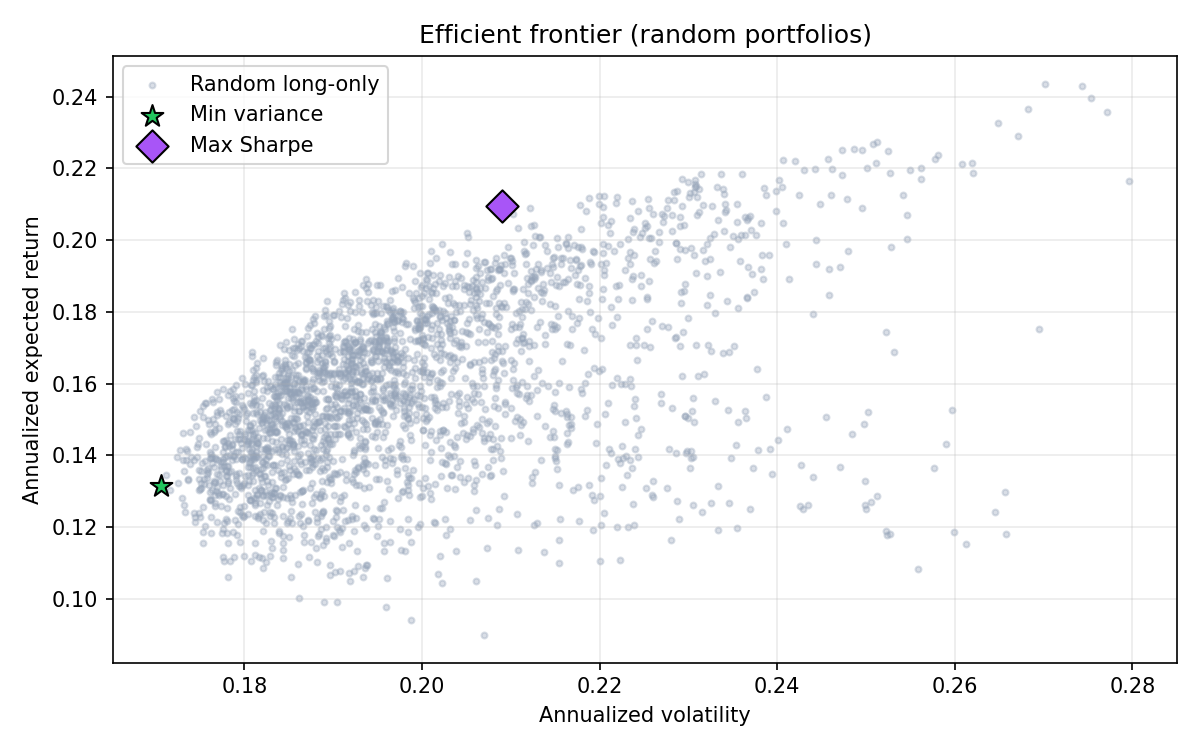
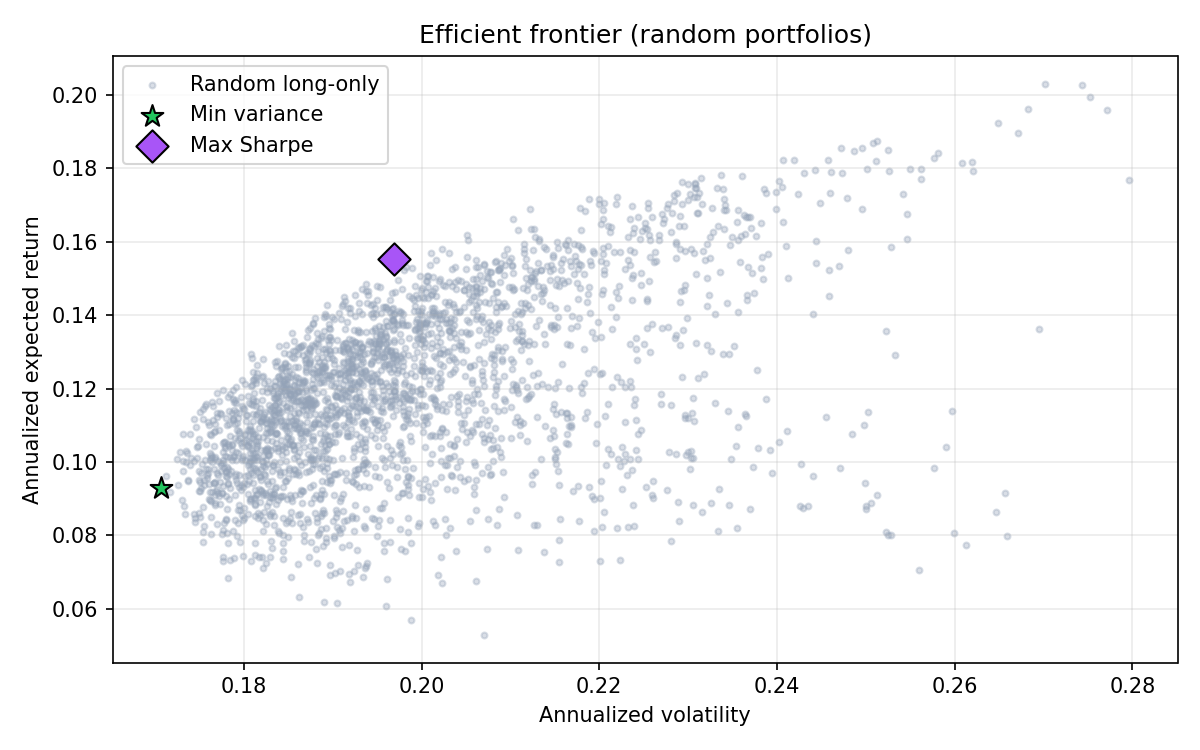
Fixed Outputs

diff --git a/engine/services/report.py b/engine/services/report.py
@@ -16,7 +16,6 @@ from models.schemas import FullPortfolioReport
 from services.frontier import random_portfolio_cloud, summarize_cloud
 from services.market_data import fetch_aligned_prices, fetch_market_returns, normalize_indian_tickers
 from services.optimizer import (
-    efficient_portfolio_for_target_vol,
     max_sharpe_weights,
     min_variance_weights,
     portfolio_mu_sigma_from_daily,
@@ -36,16 +35,7 @@ def _weights_dict(symbols: list[str], w: np.ndarray) -> dict[str, float]:
 def _equal_weights(n: int) -> np.ndarray:
     return np.ones(n, dtype=float) / n
 
-def target_vol_from_risk(risk_score, sig_mv, sig_ms):
-    return sig_mv + risk_score * (sig_ms - sig_mv)
-
-def get_portfolio_for_risk(cloud, risk_score, sig_mv, sig_ms):
-    target_vol = target_vol_from_risk(risk_score, sig_mv, sig_ms)
-
-    idx = np.argmin(np.abs(cloud.volatilities - target_vol))
-
-    return cloud.weights[idx]
-
+from services.frontier import random_portfolio_cloud, summarize_cloud, get_target_risk_portfolio
 
 def build_full_report(
     tickers: list[str],
@@ -115,24 +105,31 @@ def build_full_report(
 
     # ======================================================
 
-    print("\n--- DEBUG: Expected Returns ---")
-    print("Historical (first 5):", mu_hist[:5])
-    print("CAPM (first 5):      ", mu_capm[:5])
-    print("Blended (first 5):   ", mu_d[:5])
-    print("Symbols:", used_syms[:5])
+
 
     n = len(used_syms)
+
+    user_weights_raw = None
+    user_weights_normalized = None
 
     if target_weights is None:
         w_ref = _equal_weights(n)
         ref_label = "equal_weight"
     else:
-        w_ref = np.array([target_weights[s] for s in used_syms], dtype=float)
+        w_raw = np.array([target_weights[s] for s in used_syms], dtype=float)
+        user_weights_raw = _weights_dict(used_syms, w_raw)
+        
+        w_ref = w_raw.copy()
         if not np.isclose(w_ref.sum(), 1.0, atol=1e-6):
-            raise ValueError("target_weights must sum to 1")
+            logger.info("Normalizing user weights to sum to 1.0 for metrics comparison.")
+            if w_ref.sum() > 1e-12:
+                w_ref = w_ref / w_ref.sum()
+            elif len(w_ref) > 0 and (w_ref < -1e-9).any():
+                 raise ValueError("target_weights must be non-negative (long-only)")
         if (w_ref < -1e-9).any():
             raise ValueError("target_weights must be non-negative (long-only)")
-        w_ref = w_ref / w_ref.sum()
+        
+        user_weights_normalized = _weights_dict(used_syms, w_ref)
         ref_label = "user"
 
     mu_ann_ref, sig_ann_ref = portfolio_mu_sigma_from_daily(w_ref, mu_d, cov_d)
@@ -156,37 +153,17 @@ def build_full_report(
 
     # ================= USER RISK PORTFOLIO =================
 
-    w_user = None
-    mu_user = None
-    sig_user = None
+    w_target_risk = None
+    mu_target_risk = None
+    sig_target_risk = None
 
     mu_mv, sig_mv = portfolio_mu_sigma_from_daily(w_mv, mu_d, cov_d)
     mu_ms, sig_ms = portfolio_mu_sigma_from_daily(w_ms, mu_d, cov_d)    
 
     if risk_score is not None:
-        # clamp risk
         risk_score = float(np.clip(risk_score, 0.0, 1.0))
-
-        # map risk → target volatility
-        target_vol = sig_mv + risk_score * (sig_ms - sig_mv)
-
-        if risk_score is not None:
-             risk_score = float(np.clip(risk_score, 0.0, 1.0))
-
-             target_vol = sig_mv + risk_score * (sig_ms - sig_mv)
-
-        w_user = efficient_portfolio_for_target_vol(
-             mu_d,
-            cov_d,
-            target_vol
-         )
-
-        mu_user, sig_user = portfolio_mu_sigma_from_daily(w_user, mu_d, cov_d)
-
-        # compute stats
-        mu_user, sig_user = portfolio_mu_sigma_from_daily(w_user, mu_d, cov_d)
-
-    
+        w_target_risk = get_target_risk_portfolio(mu_d, cov_d, risk_score, risk_free_rate=rf)
+        mu_target_risk, sig_target_risk = portfolio_mu_sigma_from_daily(w_target_risk, mu_d, cov_d)
 
     if plot_path:
         plot_efficient_frontier_cloud(
@@ -219,9 +196,11 @@ def build_full_report(
         reference_portfolio=ref_label,
         min_variance_weights=_weights_dict(used_syms, w_mv),
         max_sharpe_weights=_weights_dict(used_syms, w_ms),
-        user_portfolio=_weights_dict(used_syms, w_user) if risk_score is not None else None,
-        user_expected_return=float(mu_user) if risk_score is not None else None,
-        user_volatility=float(sig_user) if risk_score is not None else None,
+        user_weights_raw=user_weights_raw,
+        user_weights_normalized=user_weights_normalized,
+        target_risk_portfolio=_weights_dict(used_syms, w_target_risk) if risk_score is not None else None,
+        target_risk_expected_return=float(mu_target_risk) if risk_score is not None else None,
+        target_risk_volatility=float(sig_target_risk) if risk_score is not None else None,
         user_risk_score=risk_score,
         risk_free_annual=rf,
         trading_days_per_year=TRADING_DAYS_PER_YEAR,

diff --git a/engine/main.py b/engine/main.py
@@ -31,10 +31,18 @@ def _cmd_demo(args: argparse.Namespace) -> int:
     if len(tickers) < 2:
         log.error("Provide at least two tickers for a meaningful portfolio demo.")
         return 2
+
+    target_weights = None
+    if args.weights:
+        if len(args.weights) != len(tickers):
+            log.error("Number of weights provided (%d) does not match number of tickers (%d).", len(args.weights), len(tickers))
+            return 2
+        target_weights = dict(zip(tickers, args.weights))
+
     try:
         report = build_full_report(
             tickers=tickers,
-            target_weights=None,
+            target_weights=target_weights,
             risk_score=args.risk,
             start=args.start,
             end=args.end,
@@ -47,7 +55,54 @@ def _cmd_demo(args: argparse.Namespace) -> int:
     except Exception as e:
         log.exception("Demo failed: %s", e)
         return 1
-    print(json.dumps(report, indent=2))
+        
+    if target_weights:
+        print("\nUser Portfolio")
+        print(f"Return: {report['expected_return']:.2%}")
+        print(f"Risk: {report['volatility']:.2%}\n")
+        
+        opt_return = report['meta']['max_sharpe_annual_return']
+        opt_risk = report['meta']['max_sharpe_annual_volatility']
+        opt_weights = report['optimal_weights']
+        
+        if args.risk is not None:
+            opt_return = report['target_risk_expected_return']
+            opt_risk = report['target_risk_volatility']
+            opt_weights = report['target_risk_portfolio']
+            
+        print("Optimal Portfolio")
+        print("Weights:")
+        for t, w in opt_weights.items():
+            print(f"  {t}: {w:.2%}")
+        print(f"\nReturn: {opt_return:.2%}")
+        print(f"Risk: {opt_risk:.2%}\n")
+        
+        print("Insight:")
+        user_ret = report['expected_return']
+        user_risk = report['volatility']
+        
+        ret_diff = opt_return - user_ret
+        risk_diff = opt_risk - user_risk
+        eps = 1e-6
+        
+        if ret_diff > eps and risk_diff < -eps:
+            print("Your portfolio is suboptimal — higher return at lower risk is possible.")
+
+        elif ret_diff > eps and risk_diff > eps:
+            print("Tradeoff — higher return comes with higher risk.")
+
+        elif abs(ret_diff) <= eps and risk_diff < -eps:
+            print("More efficient allocation — same return, lower risk.")
+
+        elif ret_diff < -eps and risk_diff < -eps:
+            print("Lower return but more stable — defensive allocation.")
+
+        elif abs(ret_diff) <= eps and abs(risk_diff) <= eps:
+            print("Your portfolio is effectively optimal.")
+
+        else:
+            print("Custom allocation — reflects your specific preferences.")
+        
     if args.plot:
         log.info("Frontier figure written to %s", Path(args.plot).resolve())
     return 0
@@ -70,6 +125,12 @@ def main() -> int:
         "tickers",
         nargs="+",
         help="e.g. RELIANCE.NS TCS.NS INFY.NS",
+    )
+    p_demo.add_argument(
+        "--weights",
+        nargs="+",
+        type=float,
+        help="Custom weights corresponding to each ticker (e.g., 0.5 0.5)",
     )
     p_demo.add_argument("--start", default=None, help="YYYY-MM-DD")
     p_demo.add_argument("--end", default=None, help="YYYY-MM-DD")

diff --git a/engine/services/optimizer.py b/engine/services/optimizer.py
@@ -28,44 +28,6 @@ def _annualized_portfolio_mean(mu_d: np.ndarray, w: np.ndarray) -> float:
     td = float(TRADING_DAYS_PER_YEAR)
     return float((1.0 + mu_p) ** td - 1.0)
 
-def efficient_portfolio_for_target_vol(
-    mu_d: np.ndarray,
-    cov_d: np.ndarray,
-    target_vol: float,
-):
-    n = len(mu_d)
-
-    def neg_return(w):
-        mu_ann, _ = portfolio_mu_sigma_from_daily(w, mu_d, cov_d)
-        return -mu_ann
-
-    def vol_constraint(w):
-        _, sig_ann = portfolio_mu_sigma_from_daily(w, mu_d, cov_d)
-        return sig_ann - target_vol
-
-    cons = (
-        {"type": "eq", "fun": lambda w: np.sum(w) - 1},
-        {"type": "eq", "fun": vol_constraint},
-    )
-
-    bounds = [(0.0, 1.0)] * n
-    w0 = np.ones(n) / n
-
-    res = minimize(
-        neg_return,
-        w0,
-        method="SLSQP",
-        bounds=bounds,
-        constraints=cons,
-        options={"maxiter": 500},
-    )
-
-    if not res.success:
-        raise OptimizationFailedError(f"Target vol optimization failed: {res.message}")
-
-    return res.x / res.x.sum()
-
-
 def _annualized_portfolio_std(cov_d: np.ndarray, w: np.ndarray) -> float:
     var_d = float(w @ cov_d @ w)
     if var_d < 0 and var_d > -1e-14:

diff --git a/engine/services/frontier.py b/engine/services/frontier.py
@@ -64,4 +64,29 @@ def summarize_cloud(
     }
 
 
-__all__ = ["RandomPortfolioCloud", "random_portfolio_cloud", "summarize_cloud"]
+def get_target_risk_portfolio(returns: np.ndarray, cov_matrix: np.ndarray, risk_level: float, risk_free_rate: float = 0.07) -> np.ndarray:
+    """
+    Interpolate along the efficient frontier based on risk_level [0, 1].
+    0 -> min variance portfolio
+    1 -> max Sharpe portfolio
+    """
+    from services.optimizer import min_variance_weights, max_sharpe_weights
+
+    # Clip risk level to [0, 1]
+    risk_level = float(np.clip(risk_level, 0.0, 1.0))
+
+    # Compute bounds of the frontier
+    min_var_weights = min_variance_weights(cov_matrix)
+    max_sharpe_w = max_sharpe_weights(returns, cov_matrix, risk_free_rate)
+
+    # Convex combination
+    weights = (1.0 - risk_level) * min_var_weights + risk_level * max_sharpe_w
+
+    # Normalize weights to ensure they sum to exactly 1
+    weights = np.clip(weights, 0.0, 1.0)
+    weights = weights / weights.sum()
+
+    return weights
+
+
+__all__ = ["RandomPortfolioCloud", "random_portfolio_cloud", "summarize_cloud", "get_target_risk_portfolio"]

diff --git a/engine/models/schemas.py b/engine/models/schemas.py
@@ -29,9 +29,13 @@ class FullPortfolioReport(BaseModel):
     annualized_mean_return_by_symbol: dict[str, float] = Field(default_factory=dict)
     frontier_random_stats: dict[str, float] = Field(default_factory=dict)
     meta: dict[str, Any] = Field(default_factory=dict)
-    user_portfolio: dict[str, float] | None = None
+    user_weights_raw: dict[str, float] | None = None
+    user_weights_normalized: dict[str, float] | None = None
     user_expected_return: float | None = None
     user_volatility: float | None = None
+    target_risk_portfolio: dict[str, float] | None = None
+    target_risk_expected_return: float | None = None
+    target_risk_volatility: float | None = None
     user_risk_score: float | None = None
 
     def to_json_dict(self) -> dict[str, Any]:
